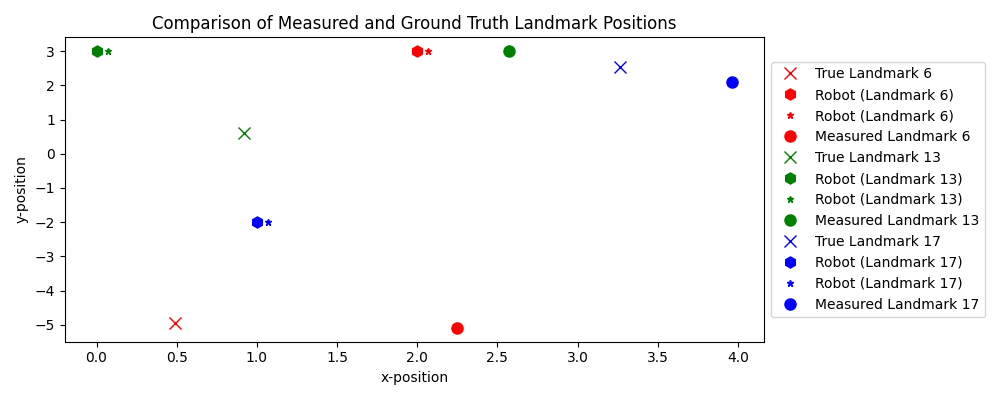
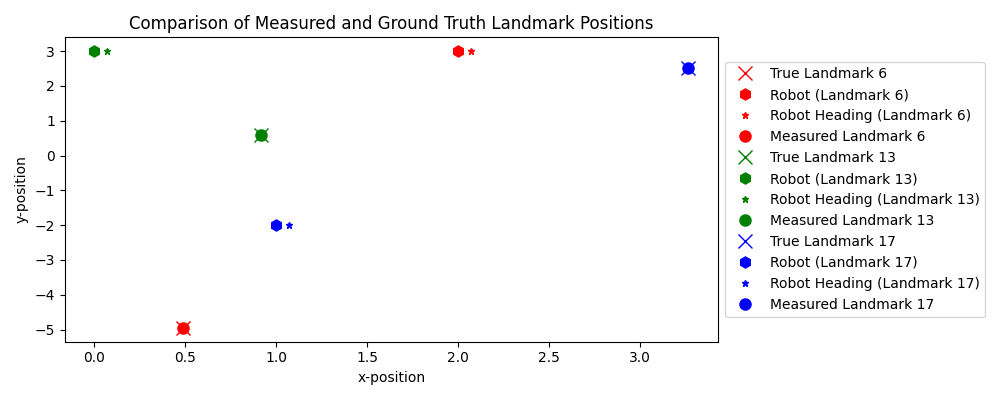
Improved plotting, added README.txt

diff --git a/run.py b/run.py
@@ -19,8 +19,7 @@ DATA_PATH = os.path.join(__file__, "../data")
 #
 def measurement_model(xt, landmarks_truth, subj):
     """
-    Measurement model based on range-bearing model on page 940 of
-    Artifical Intelligence: A Modern Approach by Norvig et al.
+    Range-bearing measurement model
 
     Args:
         xt: State at current timestep
@@ -32,7 +31,7 @@ def measurement_model(xt, landmarks_truth, subj):
 
     # Get average measuremnts
     mu_range = np.linalg.norm(xt[0:2] - l[0:2])
-    mu_bearing = np.arctan((l[1] - xt[1]) / (l[0] / xt[0])) - xt[2]
+    mu_bearing = np.atan2(l[1] - xt[1], l[0] - xt[0]) - xt[2]
 
     # TODO: Sample measurement from distribution, but for now just return mean
     return np.array([mu_range, mu_bearing]), l
@@ -109,9 +108,20 @@ def plot_wheeled_robot(trajectories, title, filename):
     """
     Plot the trajectory followed by a wheeled robot in the X-Y Plane
     """
+    # Plot path
     fig, ax = plt.subplots(1, 1, figsize=(8,4), tight_layout=True)
-    for traj, label in trajectories:    # Plot multiple trajectories
-        ax.plot(traj[:, 0], traj[:, 1], label=label)
+    for traj, label, display_robot, color, offset in trajectories:    # Plot multiple trajectories
+        ax.plot(traj[:, 0], traj[:, 1], label=label, color=color)
+
+        if display_robot:
+            for i, xt in enumerate(traj):
+                if i % (traj.shape[0] // 25) == 0 or i == 0:
+                    # Plot robot location and heading
+                    ax.plot(xt[0], xt[1], linestyle='', marker='h', markersize=8, color=color)
+                    th_x = xt[0] + offset*np.cos(xt[2])
+                    th_y = xt[1] + offset*np.sin(xt[2])
+                    ax.plot(th_x, th_y, linestyle='', marker='*', markersize=5, color=color)
+        
     plt.title(title)
     plt.xlabel("x-position")
     plt.ylabel("y-position")
@@ -133,7 +143,7 @@ def q2():
     u_traj = gen_u_traj_test(h) # Generate control trajectory
     tspan, x_traj = integrate_rk4(dynamics, x0, t0, tf, h, u_traj, tsync='const')
 
-    _ = plot_wheeled_robot([(x_traj, 'Robot Trajectory')], "Wheeled Robot Trajectory in X-Y Plane (Q2)", "q2.png")
+    _ = plot_wheeled_robot([(x_traj, 'Robot Trajectory', True, 'blue', 0.02)], "Wheeled Robot Trajectory in X-Y Plane (Q2)", "q2.png")
     print("Done\n")
 
 def q3():
@@ -154,8 +164,8 @@ def q3():
 
     # Plotting
     trajectories = [
-        (x_traj, 'Dead-Reckoned'),
-        (np.array(ground_truth.iloc[:, 1:]), 'Ground Truth')
+        (x_traj, 'Dead-Reckoned', True, 'blue', 0.2),
+        (np.array(ground_truth.iloc[:, 1:]), 'Ground Truth', True, 'orange', 0.2)
     ]
     _ = plot_wheeled_robot(trajectories, "Dead-Reckoned and Ground Truth Trajectories - ds0 (Q3)", "q3.png")
     print("Done\n")
@@ -176,7 +186,6 @@ def q6():
     true_landmarks = []
     for xt, subj in test_landmarks:
         zt, l = measurement_model(xt, landmarks_truth, subj)
-        print(f'Measured Landmark {subj}: ({zt[0]}, {zt[1]})')
         measured_landmarks.append(zt)
         true_landmarks.append(l)
 
@@ -184,13 +193,13 @@ def q6():
     fig, ax = plt.subplots(1, 1, figsize=(10,4), tight_layout=True)
     colors = ['red', 'green', 'blue']
     for zt, l, (xt, subj), c in zip(measured_landmarks, true_landmarks, test_landmarks, colors):
-        ax.plot(l[0], l[1], linestyle='', marker='x', markersize=8, color=c, label=f'True Landmark {subj}')
+        ax.plot(l[0], l[1], linestyle='', marker='x', markersize=10, color=c, label=f'True Landmark {subj}')
 
         # Plot robot location and heading
         ax.plot(xt[0], xt[1], linestyle='', marker='h', markersize=8, color=c, label=f'Robot (Landmark {subj})')
         th_x = xt[0] + 0.07*np.cos(xt[2])
         th_y = xt[1] + 0.07*np.sin(xt[2])
-        ax.plot(th_x, th_y, linestyle='', marker='*', markersize=5, color=c, label=f'Robot (Landmark {subj})')
+        ax.plot(th_x, th_y, linestyle='', marker='*', markersize=5, color=c, label=f'Robot Heading (Landmark {subj})')
 
         # Determine landmark position from range and bearing
         zt_x = xt[0] + zt[0]*np.cos(zt[1])
@@ -206,6 +215,8 @@ def q6():
     fig_path = os.path.join(PLOT_PATH, 'q6.png')
     plt.savefig(fig_path)
     print("Done\n")
+    for zt, (xt, subj) in zip(measured_landmarks, test_landmarks):
+        print(f'Landmark {subj} Measurements: ({zt[0]}, {zt[1]})')
 
 def main():
     print("*** STARTING ***\n")
